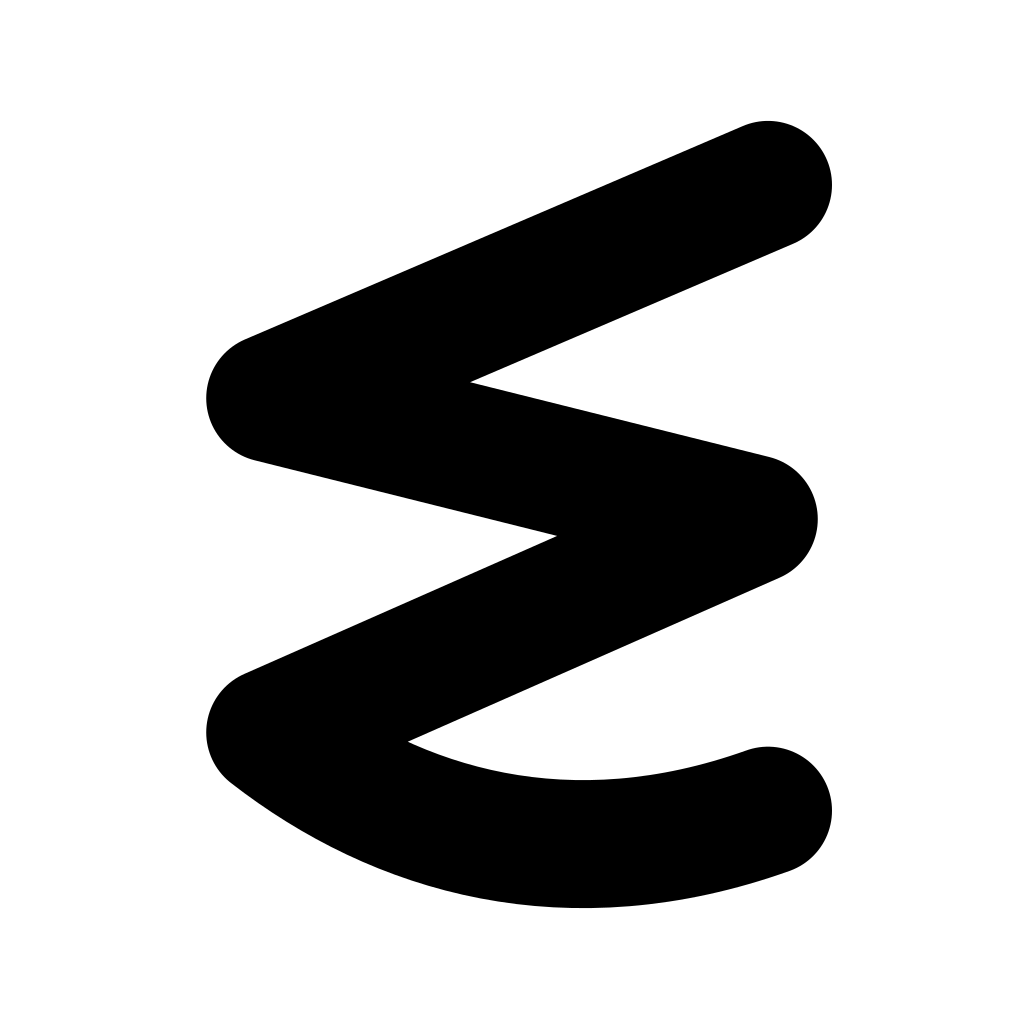
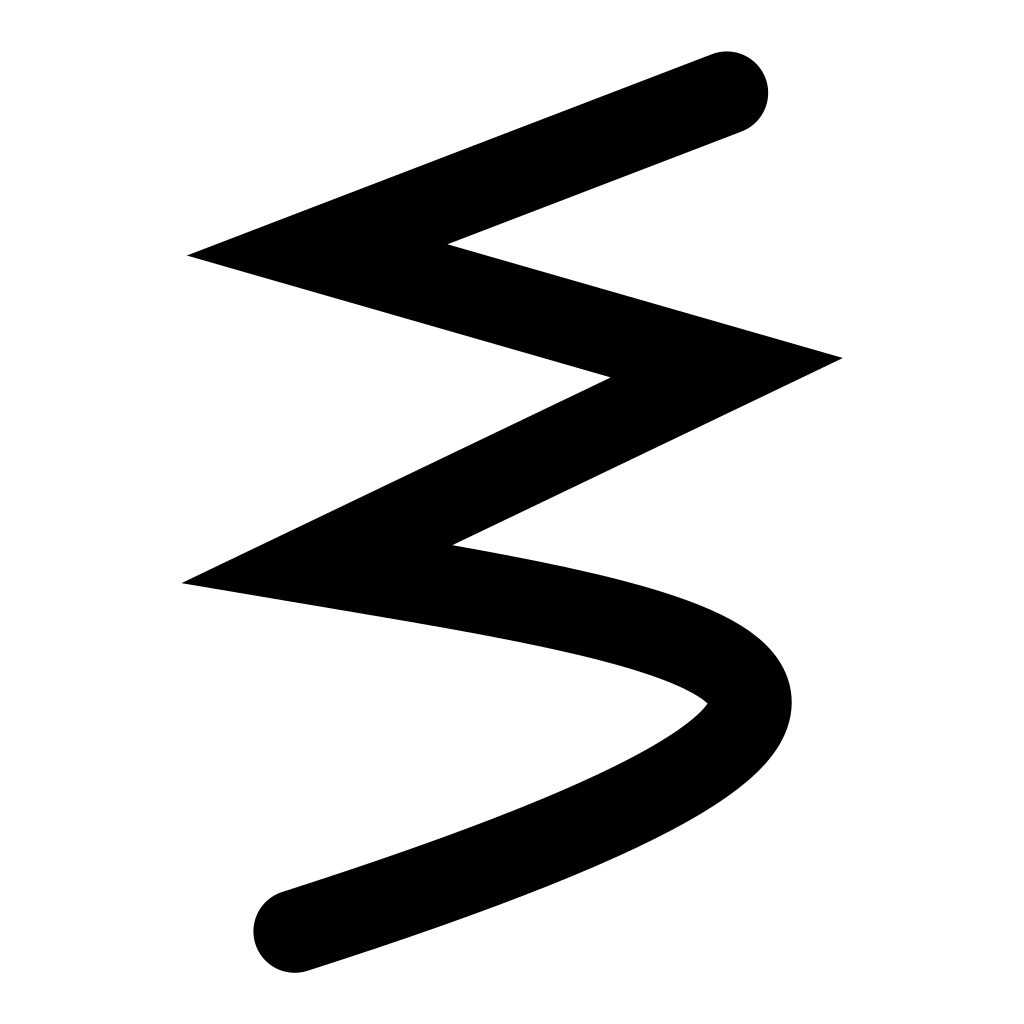
fix(ios): 键盘品牌键的标记改由母版生成 (#3453)
那个键把一张模板图染成皮肤的强调色,所以它不能是带框的整图,只能是单色剪影。但它此前是同一笔画的另一次描绘 —— 笔画更粗、每个转角都是圆的 —— 于是换完 logo 之后,键盘成了全app唯一还显示旧标记的地方。

改成从母版取那条 stroke 路径,和图标、App 内品牌图同出一处,纳入 generate_app_icons.py。格式不变:白底黑笔画、无 alpha,因为 brandTemplate() 要把它反相后当蒙版用。

Android 那边本来就直接画母版路径(74.7234, 14 …),不受影响。Harmony 的 keyboard_brand.svg 是同一笔画的扫描线描摹,有同样的问题,但它作为填充图被 Image 染色,改成描边未必还能染,这台机器也构建不了 Harmony,所以留在原样。

Changed region(s): [[0.1875, 0.0312, 0.8125, 0.9688]]

diff --git a/platforms/ios/scripts/generate_app_icons.py b/platforms/ios/scripts/generate_app_icons.py
@@ -38,6 +38,9 @@ INSET = 0.74  # artwork height as a fraction of the icon; leaves the mask ~13% t
 # edge rather than as texture. The stamps are therefore replaced by one stroke on the same path,
 # at the weight the brush band carried (measured at 1024: a ~6.5 unit band over a ~5 unit core).
 FRAME_WIDTH = 5
+# The mark's own extent, measured the same way as BBOX. Only the keyboard's brand key needs it -
+# it shows the stroke without the panel around it.
+MARK_BBOX = (22.0, 9.9786, 85.9571, 99.0)
 
 # The two top-level paths of the master, in order: the dark panel and the white mark. Everything
 # else in the file is the scatter - the 164 `use` elements and the `defs` they point at.
@@ -95,6 +98,33 @@ def preview(name: str, source: Path) -> None:
     render(source, path / "Preview.png", 256)
 
 
+def keyboard_brand(staging: Path) -> None:
+    """The mark alone, black on white, for the keyboard's brand key.
+
+    That key tints one template image with the active skin's accent, so this cannot be the framed
+    artwork - it has to be a single silhouette. It was previously a separate, bolder drawing of the
+    same stroke with every corner rounded, which is what made the keyboard the one place still
+    showing the old mark. Taking the path from the master keeps them one mark.
+
+    `KeyboardViewController.brandTemplate()` inverts this and uses the result as an alpha mask, so
+    it wants no alpha channel of its own: white ground, black stroke.
+    """
+    _, mark = parts()
+    left, top, right, bottom = MARK_BBOX
+    scale = 0.9 * 110 / max(right - left, bottom - top)
+    transform = (
+        f"translate({55 - scale * (left + right) / 2:.4f} {55 - scale * (top + bottom) / 2:.4f})"
+        f" scale({scale:.6f})"
+    )
+    source = staging / "KeyboardBrand.svg"
+    source.write_text(
+        '<svg xmlns="http://www.w3.org/2000/svg" width="110" height="110" viewBox="0 0 110 110"'
+        ' fill="none">\n<rect width="110" height="110" fill="white"/>\n'
+        f'<g transform="{transform}">{mark.replace("white", "black")}</g>\n</svg>\n'
+    )
+    render(source, ROOT.parent.parent / "SharedResources/KeyboardBrand.png", 1024)
+
+
 def alternate(name: str, source: Path) -> None:
     """Explicit iPhone and iPad renditions, including the legacy-size slots."""
     path = ASSETS / f"AppIcon{name}.appiconset"
@@ -136,6 +166,7 @@ def main() -> None:
         logo = staging / "Logo.svg"
         logo.write_text(artwork(FRAME, field=None))
         render(logo, ASSETS / "MSIMELogo.imageset/logo.png", 1024)
+        keyboard_brand(staging)
 
         for name, frame in VARIANTS.items():
             source = staging / f"{name}.svg"
